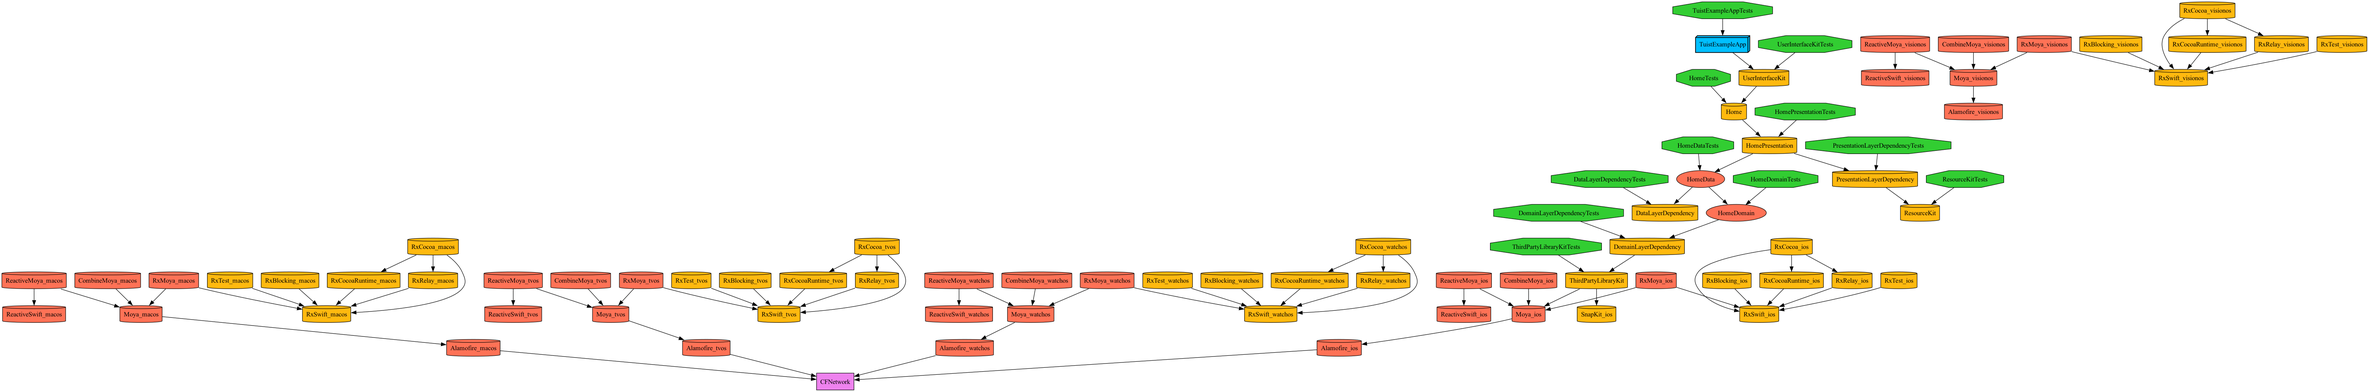
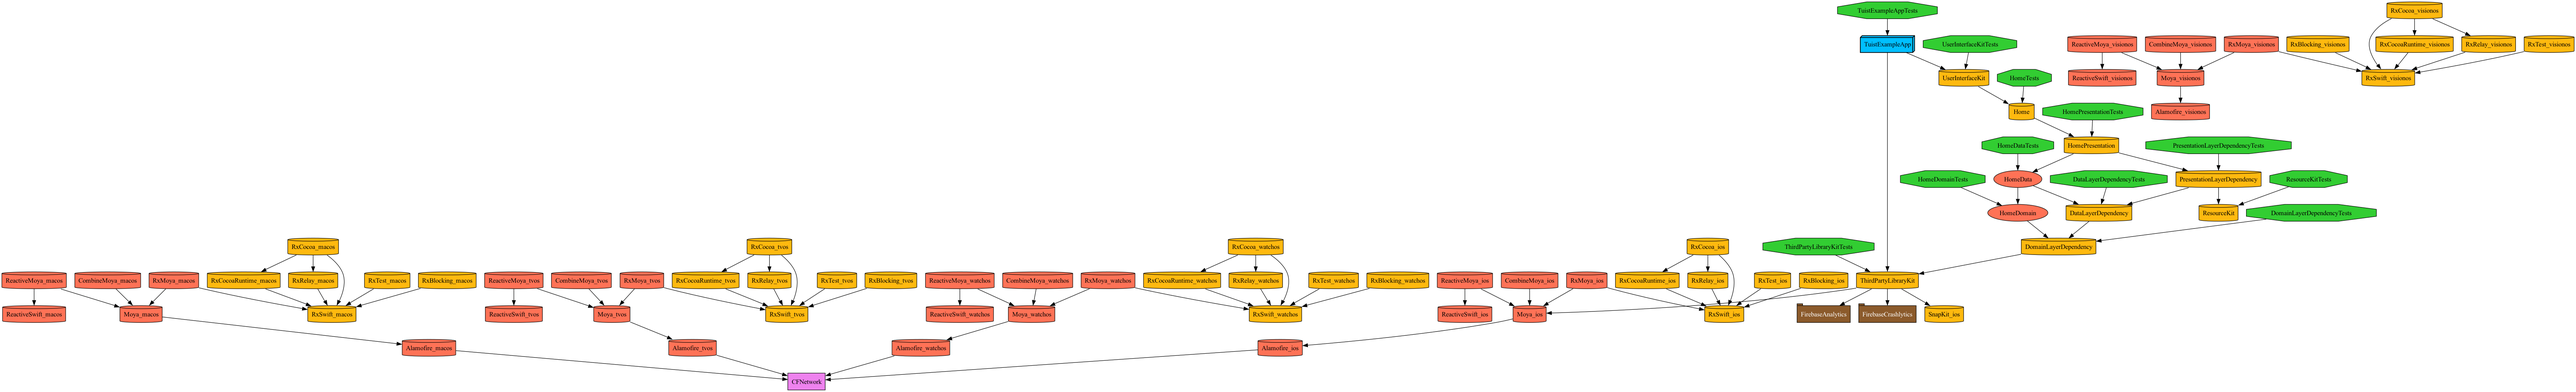
Firebase 테스트

diff --git a/Tuist/ProjectDescriptionHelpers/Project+Templates.swift b/Tuist/ProjectDescriptionHelpers/Project+Templates.swift
@@ -12,15 +12,17 @@ extension Project {
         product: Product,
         organizationName: String = "com.didwndckd",
         packages: [Package] = [],
-        deploymentTarget: DeploymentTarget? = .iOS(targetVersion: "15.0", devices: [.iphone, .ipad]),
+        deploymentTarget: DeploymentTarget? = .iOS(targetVersion: "14.0", devices: [.iphone, .ipad]),
+        scripts: [TargetScript] = [],
         dependencies: [TargetDependency] = [],
         sources: SourceFilesList = ["Sources/**"],
         resources: ResourceFileElements? = nil,
-        infoPlist: InfoPlist = .default
+        infoPlist: InfoPlist = .default,
+        settings: Settings? = nil
     ) -> Project {
         // 프로젝트 세팅
-        let settings = Settings.settings(
-            base: [:], // Build Settings
+        let settings = settings ?? Settings.settings(
+            base: [:],
             configurations: [ // Configurations
                 .debug(name: .debug),
                 .release(name: .release)
@@ -34,6 +36,7 @@ extension Project {
             product: product,
             organizationName: organizationName,
             deploymentTarget: deploymentTarget,
+            scripts: scripts,
             dependencies: dependencies,
             sources: sources,
             resources: resources,
@@ -58,7 +61,7 @@ extension Project {
         product: Product = .framework,
         organizationName: String = "com.didwndckd",
         packages: [Package] = [],
-        deploymentTarget: DeploymentTarget? = .iOS(targetVersion: "15.0", devices: [.iphone, .ipad]),
+        deploymentTarget: DeploymentTarget? = .iOS(targetVersion: "14.0", devices: [.iphone, .ipad]),
         dependencies: [TargetDependency] = [],
         resources: ResourceFileElements? = nil,
         infoPlist: InfoPlist = .default
@@ -92,6 +95,7 @@ extension Project {
                                                      deploymentTarget: deploymentTarget,
                                                      dependencies: [
                                                         .target(domainLayerTarget.product),
+                                                        
                                                         .project(
                                                             target: "DataLayerDependency",
                                                             path: .relativeToRoot("Projects/UserInterface/DataLayerDependency")
@@ -153,11 +157,16 @@ extension Target {
         product: Product,
         organizationName: String,
         deploymentTarget: DeploymentTarget?,
+        scripts: [TargetScript] = [],
         dependencies: [TargetDependency],
         sources: SourceFilesList?,
         resources: ResourceFileElements?,
         infoPlist: InfoPlist
     ) -> Target {
+        var scripts = scripts
+        scripts.insert(.pre(script: "echo \"😂TEST ->  \(name) START\"", name: "start"), at: 0)
+        scripts.append(.post(script: "echo \"😂TEST ->  \(name) END\"", name: "end"))
+        
         return Target(
             name: name, // 타겟 이름
             platform: platform, // 플랫폼(iOS, MacOS...)
@@ -167,7 +176,8 @@ extension Target {
             infoPlist: infoPlist,
             sources: sources, // 소스 경로(프로젝트 루트 기반)
             resources: resources, // 리소스 경로(프로젝트 루트 기반)
-            dependencies: dependencies // 의존성
+            scripts: scripts,
+            dependencies: dependencies
         )
     }
     
@@ -177,6 +187,7 @@ extension Target {
         product: Product,
         organizationName: String,
         deploymentTarget: DeploymentTarget?,
+        scripts: [TargetScript] = [],
         dependencies: [TargetDependency],
         sources: SourceFilesList?,
         resources: ResourceFileElements?,
@@ -188,6 +199,7 @@ extension Target {
             product: product,
             organizationName: organizationName,
             deploymentTarget: deploymentTarget,
+            scripts: scripts,
             dependencies: dependencies,
             sources: sources,
             resources: resources,

diff --git a/Projects/TuistExampleApp/Project.swift b/Projects/TuistExampleApp/Project.swift
@@ -11,12 +11,36 @@ import ProjectDescriptionHelpers
 let project = Project.create(
     name: "TuistExampleApp",
     product: .app,
+    scripts: [
+        .post(
+            path: .relativeToRoot("Scripts/RunScript_FirebaseCrashlytics.sh"),
+            name: "RunScript(FirebaseCrashlytics)",
+            inputPaths: [
+                "${DWARF_DSYM_FOLDER_PATH}/${DWARF_DSYM_FILE_NAME}",
+                "${DWARF_DSYM_FOLDER_PATH}/${DWARF_DSYM_FILE_NAME}/Contents/Resources/DWARF/${PRODUCT_NAME}",
+                "${DWARF_DSYM_FOLDER_PATH}/${DWARF_DSYM_FILE_NAME}/Contents/Info.plist",
+                "$(BUILT_PRODUCTS_DIR)/$(UNLOCALIZED_RESOURCES_FOLDER_PATH)/GoogleService-Info.plist",
+                "$(BUILT_PRODUCTS_DIR)/$(EXECUTABLE_PATH)"
+            ],
+            basedOnDependencyAnalysis: false
+        )
+    ],
     dependencies: [
         .project(
             target: "UserInterfaceKit",
             path: .relativeToRoot("Projects/UserInterface/UserInterfaceKit")
         ),
+        .project(
+            target: "ThirdPartyLibraryKit",
+            path: .relativeToRoot("Projects/ThirdPartyLibraryKit")
+        )
     ],
-    resources: ["Resources/**"],
-    infoPlist: .file(path: "Support/Info.plist")
+    resources: ["Resources/**", "Support/GoogleService-Info.plist"],
+    infoPlist: .file(path: "Support/Info.plist"),
+    settings: .settings(
+        configurations: [
+            .debug(name: .debug, xcconfig: "./xcconfig/TuistExampleApp.xcconfig"),
+            .release(name: .release, xcconfig: "./xcconfig/TuistExampleApp.xcconfig")
+        ]
+    )
 )

diff --git a/Projects/UserInterface/Home/Presentation/View/HomeView.swift b/Projects/UserInterface/Home/Presentation/View/HomeView.swift
@@ -18,18 +18,21 @@ public struct HomeView: View {
     
     public var body: some View {
         VStack {
+            Button("Crash") {
+                fatalError("Test")
+            }
             Text("Hello Home")
             Image("gorilla")
                 .resizable()
                 .frame(height: 100)
-                .background(.green)
+//                .background(.green)
             
             Image(uiImage: ResourceKitAsset
                 .gorilla3
                 .image)
                 .resizable()
                 .frame(height: 100)
-                .background(.pink)
+//                .background(.pink)
         }
     }
 }

diff --git a/Projects/ThirdPartyLibraryKit/Project.swift b/Projects/ThirdPartyLibraryKit/Project.swift
@@ -12,9 +12,19 @@ let project = Project.create(
     name: "ThirdPartyLibraryKit",
     product: .framework,
     packages: [
+        .remote(
+            url: "https://github.com/firebase/firebase-ios-sdk",
+            requirement: .upToNextMajor(from: "9.0.0")
+        )
     ],
     dependencies: [
         .external(name: "SnapKit"),
-        .external(name: "Moya")
-    ]
+        .external(name: "Moya"),
+        .package(product: "FirebaseAnalytics"),
+        .package(product: "FirebaseCrashlytics")
+    ],
+    settings: .settings(
+        debug: ["OTHER_LDFLAGS": "-ObjC"],
+        release: ["OTHER_LDFLAGS": "-ObjC"]
+    )
 )

diff --git a/Projects/UserInterface/DataLayerDependency/Project.swift b/Projects/UserInterface/DataLayerDependency/Project.swift
@@ -10,5 +10,11 @@ import ProjectDescriptionHelpers
 
 let project = Project.create(
     name: "DataLayerDependency",
-    product: .framework
+    product: .framework,
+    dependencies: [
+        .project(
+            target: "DomainLayerDependency",
+            path: .relativeToRoot("Projects/UserInterface/DomainLayerDependency")
+        )
+    ]
 )

diff --git a/Projects/UserInterface/Home/Domain/UseCase/HomeUseCase.swift b/Projects/UserInterface/Home/Domain/UseCase/HomeUseCase.swift
@@ -6,6 +6,7 @@
 //
 
 import Foundation
+//import Firebase
 
 public protocol HomeUseCase {}
 
@@ -13,5 +14,6 @@ public final class DefaultHomeUseCase: HomeUseCase {
     private let repository: HomeRepository
     public init(repository: HomeRepository) {
         self.repository = repository
+//        FirebaseApp.configure()
     }
 }

diff --git a/Projects/UserInterface/PresentationLayerDependency/Project.swift b/Projects/UserInterface/PresentationLayerDependency/Project.swift
@@ -15,6 +15,10 @@ let project = Project.create(
         .project(
             target: "ResourceKit",
             path: .relativeToRoot("Projects/ResourceKit")
+        ),
+        .project(
+            target: "DataLayerDependency",
+            path: .relativeToRoot("Projects/UserInterface/DataLayerDependency")
         )
     ]
 )

diff --git a/Projects/TuistExampleApp/Sources/Application/AppDelegate.swift b/Projects/TuistExampleApp/Sources/Application/AppDelegate.swift
@@ -6,11 +6,13 @@
 //
 
 import UIKit
+import Firebase
 
 @main
 class AppDelegate: UIResponder, UIApplicationDelegate {
 
     func application(_ application: UIApplication, didFinishLaunchingWithOptions launchOptions: [UIApplication.LaunchOptionsKey: Any]?) -> Bool {
+        FirebaseApp.configure()
         return true
     }
 

diff --git a/Projects/UserInterface/Home/Data/Repository/RemoteHomeRepository.swift b/Projects/UserInterface/Home/Data/Repository/RemoteHomeRepository.swift
@@ -9,5 +9,6 @@ import Foundation
 import HomeDomain
 
 public struct RemoteHomeRepository: HomeRepository {
-    public init() {}
+    public init() {
+    }
 }

diff --git a/Projects/UserInterface/DomainLayerDependency/Sources/DomainLayerDependency.swift b/Projects/UserInterface/DomainLayerDependency/Sources/DomainLayerDependency.swift
@@ -7,4 +7,7 @@
 
 import Foundation
 
-struct DomainLayerDependency {}
+public struct DomainLayerDependency {
+    public init() {
+    }
+}

diff --git a/Projects/UserInterface/DataLayerDependency/Sources/DataLayerDependency.swift b/Projects/UserInterface/DataLayerDependency/Sources/DataLayerDependency.swift
@@ -7,4 +7,7 @@
 
 import Foundation
 
-struct DataLayerDependency {}
+struct DataLayerDependency {
+    init() {
+    }
+}

diff --git a/Projects/ThirdPartyLibraryKit/Sources/ThirdPartyLibraryKit.swift b/Projects/ThirdPartyLibraryKit/Sources/ThirdPartyLibraryKit.swift
@@ -7,4 +7,5 @@
 
 import Foundation
 
-public struct ThirdPartyLibraryKit {}
+public struct ThirdPartyLibraryKit {
+}
